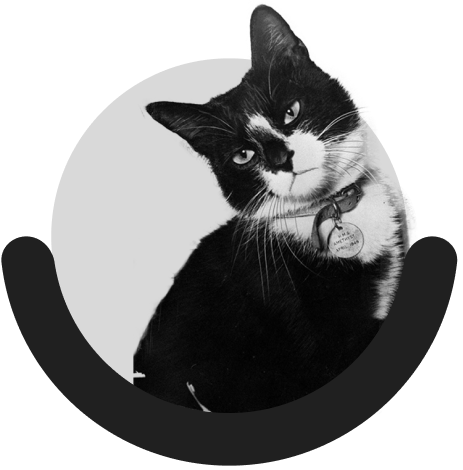
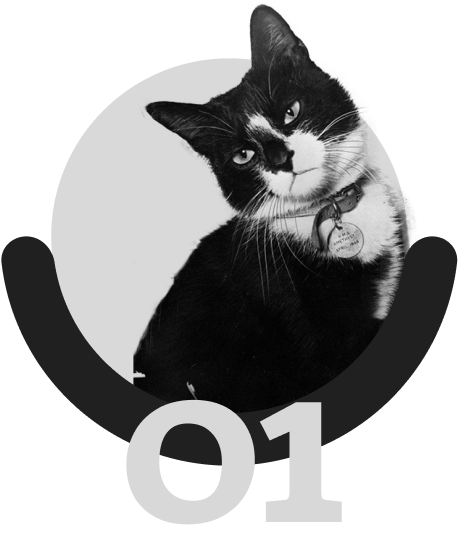
Crea ajustes de segunda seccion

diff --git a/style.css b/style.css
@@ -15,7 +15,7 @@ color: #565656;
 h2{
 font-family: 'Enriqueta';
 font-size: 5.5625em;
-color: #202020;
+color: #D8D8D8;
 }
 
 h3{
@@ -36,17 +36,6 @@ font-weight: 300;
     width: 100%;
     height: 750px;
     }
-
-.Sam01{
-    display: flex;
-    justify-content: center;
-    background-image: url("src/Black Bakground 1.png");
-    background-position: center;
-    background-repeat: no-repeat;
-    background-size: cover;
-    width: 100%;
-    height: 750px;
-}
 
 .Banner_Article{
     margin-top: 180px;
@@ -74,3 +63,42 @@ font-weight: 300;
     right: 42px;
     top: 261px;
 }
+
+.Sam01{
+    float: left;
+    width: 50%;
+    display: flex;
+    background-image: url("src/Black Bakground 1.png");
+    background-position: center;
+    background-repeat: no-repeat;
+    background-size: cover;
+    width: 100%;
+    height: 750px;
+}
+
+.columns{
+    display: flex;
+    flex-direction: row;
+    justify-content: space-around;
+    width: 100%;
+}
+
+.column-1>img{
+    justify-content: center;
+}
+
+.column-2{
+    width: 60%;
+}
+
+.sam-tittle{
+    
+    text-align: left;
+    justify-content: center;
+}
+
+
+
+
+
+

diff --git a/index.html b/index.html
@@ -21,10 +21,13 @@
     </section>
 
    <section class="Sam01">
-        <div>
-            <article class="01_Article">
-                
-            </article>
+        <div class="columns">
+            <div class="column-1">
+                <img src="./src/Sam image 1.png" alt="Primera imagen Sam">
+            </div>
+            <div class="column-2">
+                <h2 class="sam-tittle"> Sam </h2>
+            </div>
         </div>
     </section>
     </main>
